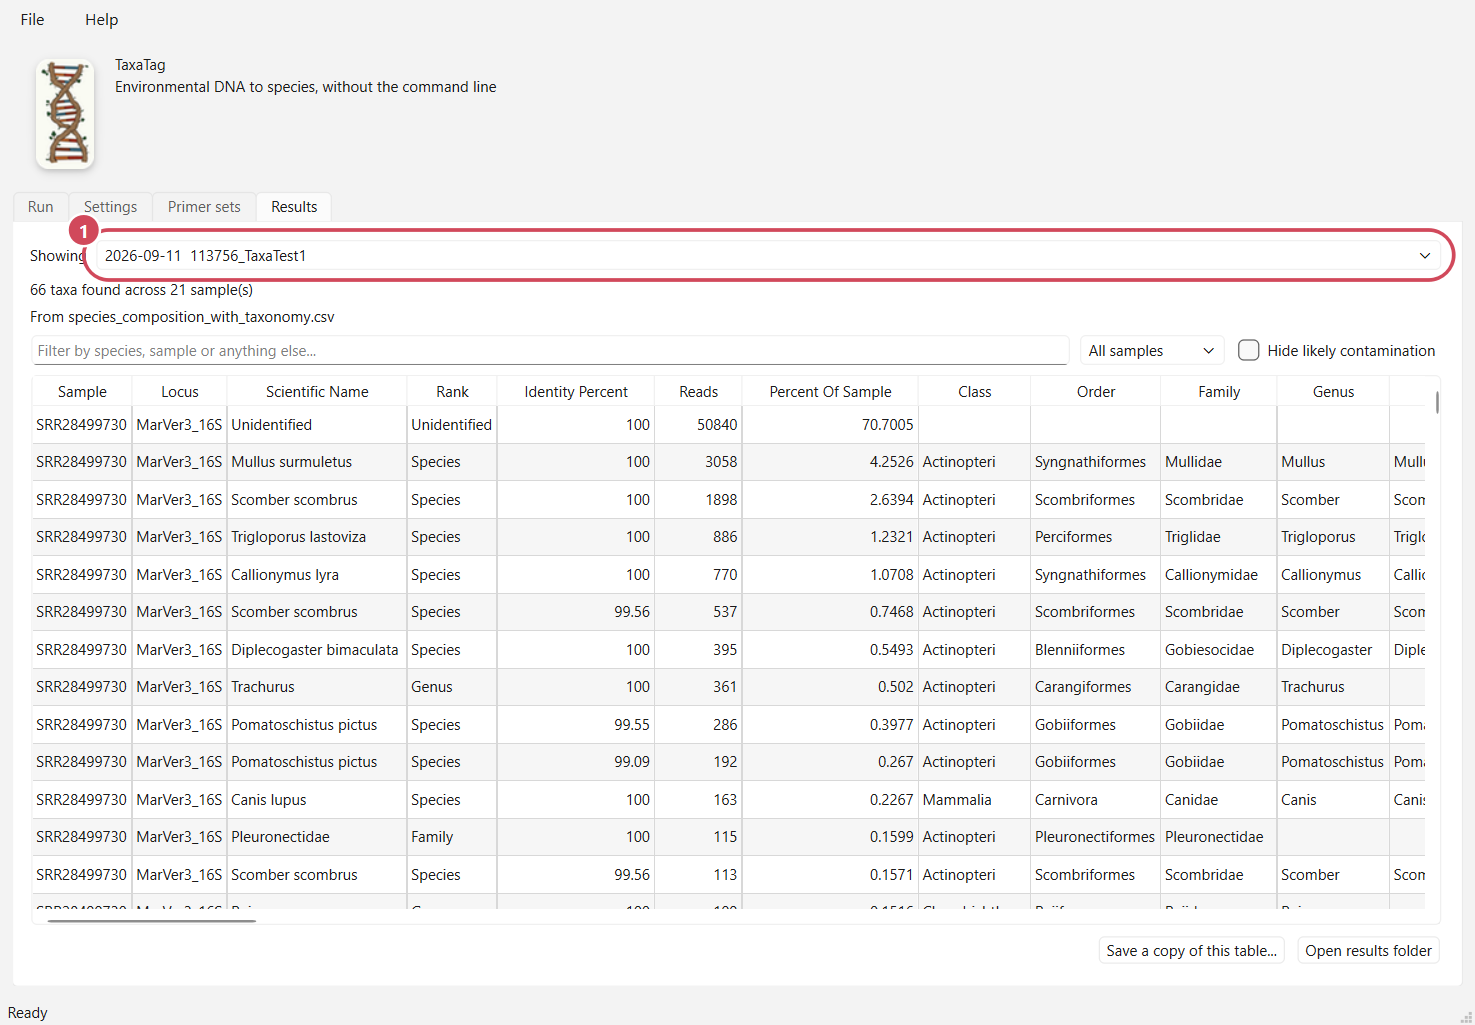
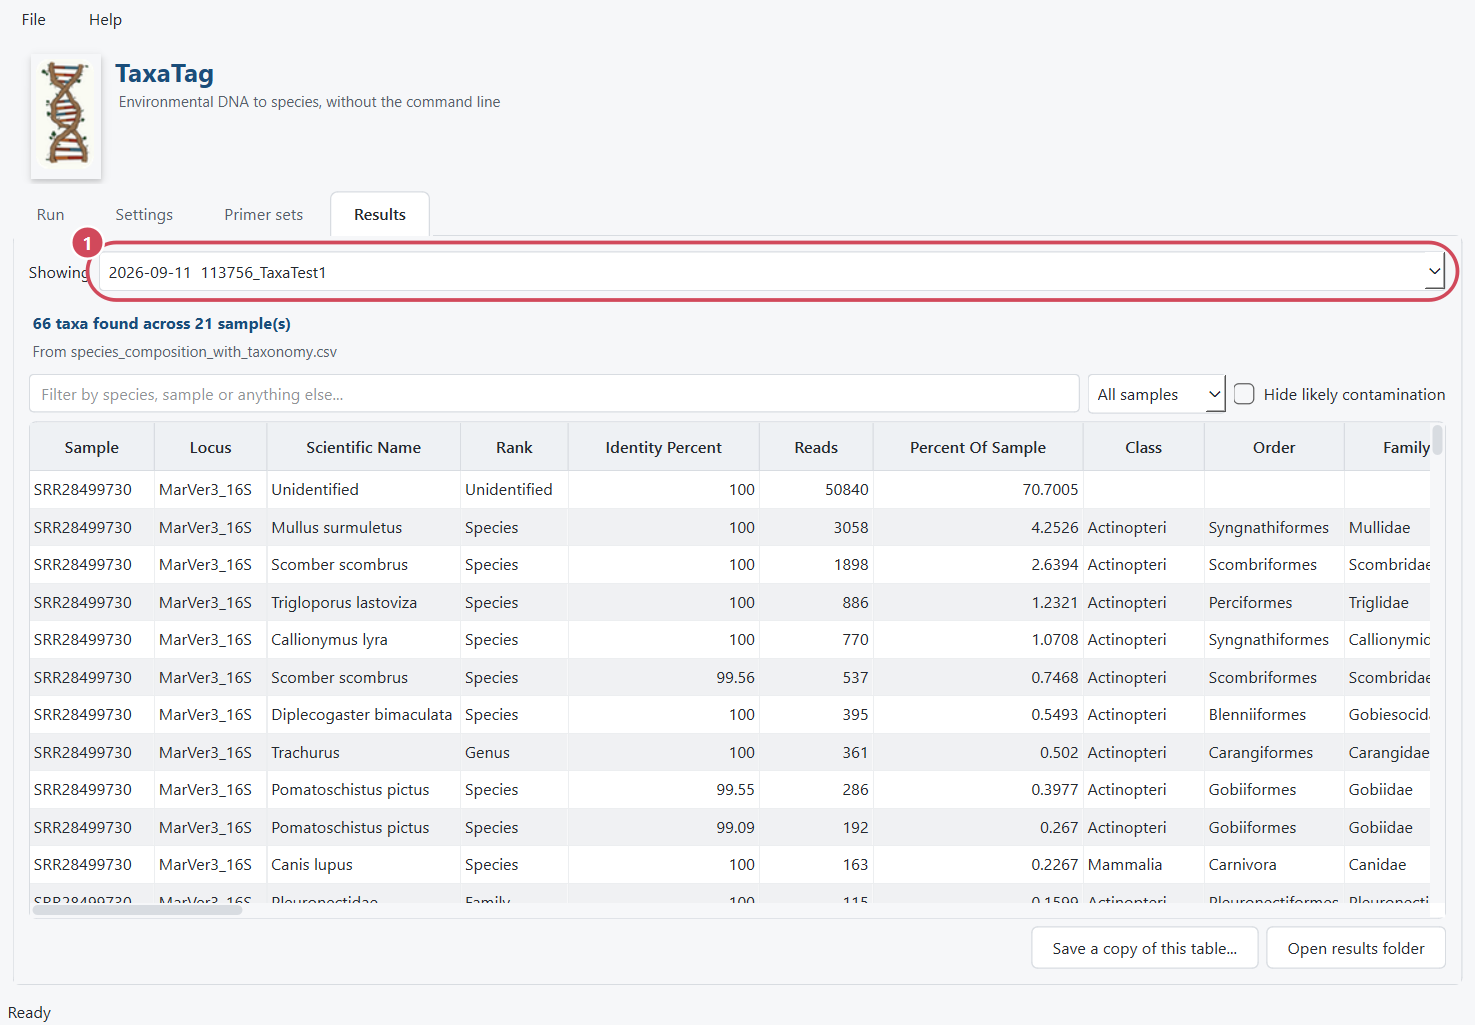
Show the dark scheme in the README

diff --git a/README.md b/README.md
@@ -151,6 +151,12 @@ The file containing the results will be in its respective run folder as `05_resu
 one row per taxon, per sample, with the evidence beside it. The **"Save a copy of this table"** button writes
 whatever you are looking at, optional filters included.
 
+A species table is something you read for a long time. If a white window is
+hard on your eyes, the **Display** group at the top of the Settings tab has a
+dark scheme; by default TaxaTag follows whatever your computer is set to.
+
+![The window in the dark scheme](resources/screenshot-dark.png)
+
 ---
 
 ## Keeping it up to date
